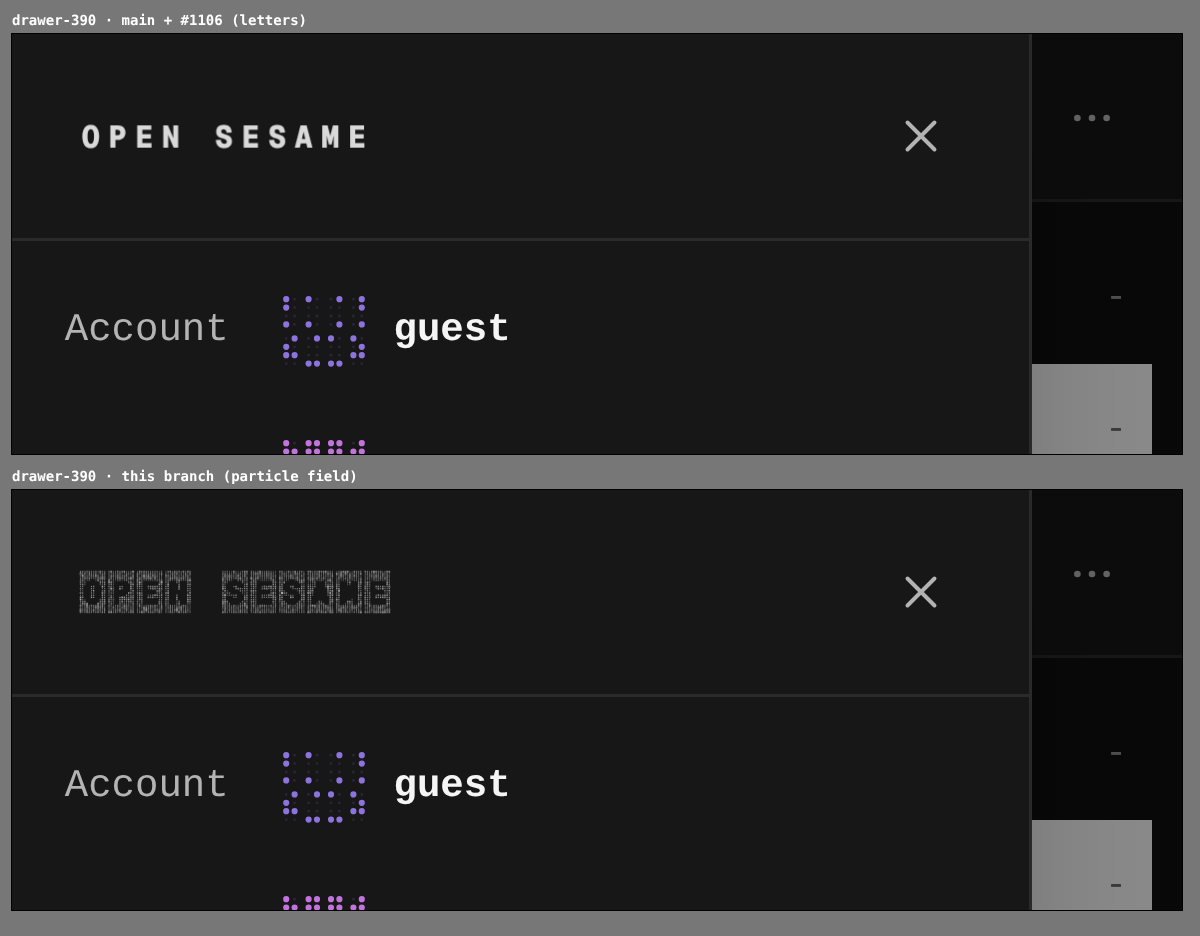
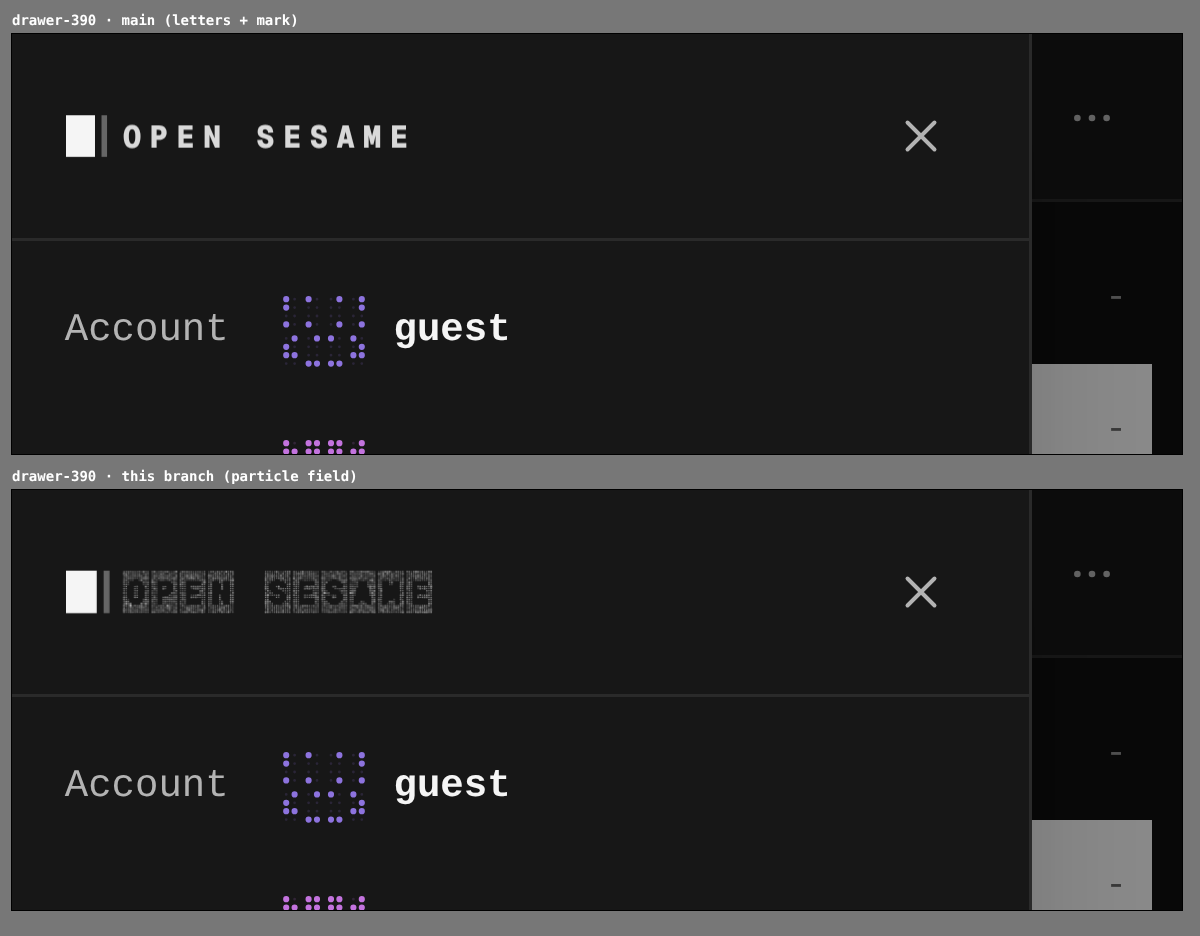
docs(evidence): recapture the chrome wordmark with #1100's mark
Claude-Session: https://claude.ai/code/session_01FWoRJY8yuV4t7k6tqKnY5f

Changed region(s): [[0.0308, 0.5887, 0.37, 0.6816], [0.0308, 0.1239, 0.3392, 0.1859], [0.1542, 0.0, 0.2467, 0.031]]

diff --git a/docs/evidence/2026-10-11-chrome-wordmark-field/README.md b/docs/evidence/2026-10-11-chrome-wordmark-field/README.md
@@ -9,8 +9,9 @@ is laid out at 16. The rail, the drawer and the setup bar draw the field at
 already revealed skips the decrypt but still shimmers; only reduced motion holds
 it still.
 
-The captures come from two real builds of the same harness: `main` with
-#1106 (`673c0898`) and this branch. Each surface is reached the same way, in
+The captures come from two real builds of the same harness: `main` at
+`20511336` (which has #1106, and #1100's mark on every wordmark) and this
+branch. Both draw the mark beside the name; only the name's rendering changes. Each surface is reached the same way, in
 dark mode, five seconds after arrival, at the device's own pixel ratio (2 at
 1280, 3 on a phone):
 
@@ -36,9 +37,9 @@ The wordmark's computed em and canvas size. "Shimmering" means the canvas
 changes between two frames 700ms apart, five seconds after arrival.
 "Overflow" is how far the bar's furthest button reaches past the viewport.
 
-| Surface | `main` + #1106 | this branch |
+| Surface | `main` | this branch |
 |---|---|---|
-| Rail, 1280 | 12px em, 89×19px, still | 16px em, 116×23px, shimmering |
-| Setup bar, 390 | 13px em, 96×20px, still | 16px em, 116×23px, shimmering |
-| Setup bar, 320 | 13px em, 96×20px, still, overflow 0 | 16px em, 116×23px, shimmering, overflow 0 |
-| Drawer, 390 | 15px em, 109×22px, still | 16px em, 116×23px, shimmering |
+| Rail, 1280 | 12px em, 100×19px, still | 16px em, 131×23px, shimmering |
+| Setup bar, 390 | 13px em, 108×20px, still | 16px em, 131×23px, shimmering |
+| Setup bar, 320 | 13px em, 108×20px, still, overflow 0 | 16px em, 131×23px, shimmering, overflow 0 |
+| Drawer, 390 | 15px em, 123×22px, still | 16px em, 131×23px, shimmering |
